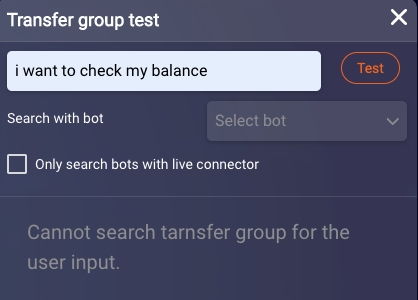
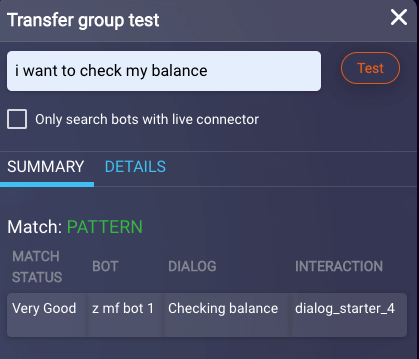
BA-4091 Bot Tango updates

diff --git a/pages/documents/ConversationalAI/ConversationBuilder/Bots/MultiBotCollaboration.md b/pages/documents/ConversationalAI/ConversationBuilder/Bots/MultiBotCollaboration.md
@@ -87,18 +87,13 @@ Once you've created a bot transfer group and assigned bots to the group, you can
 4. In the **Transfer group test** tool, specify the following:
 
     * **User text**: Enter the user message to use to search against the bots in the group.
-    * **Search with bot**: If you want to search against only a specific bot, select it here.
     * **Only search bots with live connector**: If you want to search against only bots with active agent connectors, select this. This option lets you simulate a runtime experience by excluding bots in the bot transfer group that aren't deployed yet.
 
 5. Click **Test**.
 
    <img class="fancyimage" style="width:400px" src="img/ConvoBuilder/bots_collab8.png">
 
-
-match = INTENT or PATTERN
-match status = very good, good, etc.
-if we find a very good match with one bot, we won't look for another option
-
+    If a bot is matched to the user text, the results indicate whether it was a pattern match or an intent match, and they identify the details: the strength of the match, the name of the bot, the name of the dialog, and the name of the interaction.
 
 #### Inactivate a bot transfer group
 
